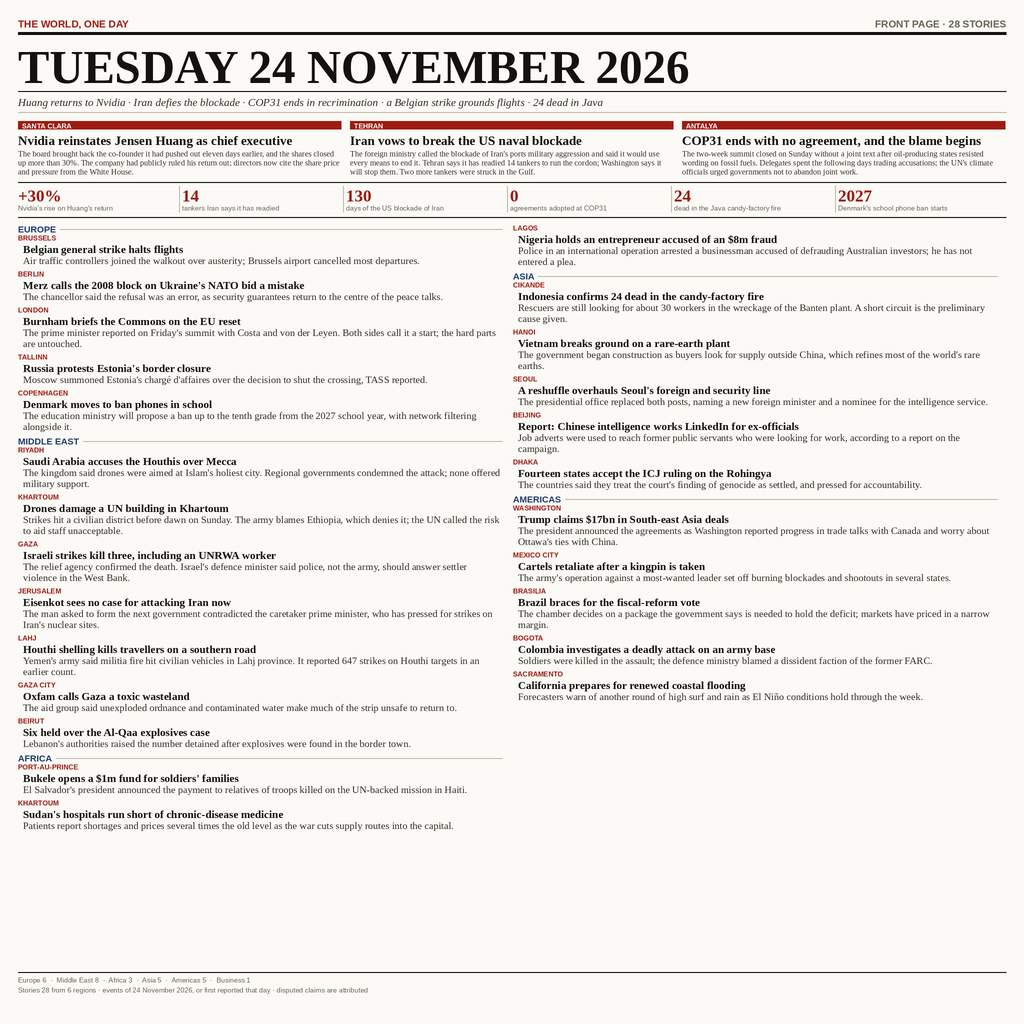
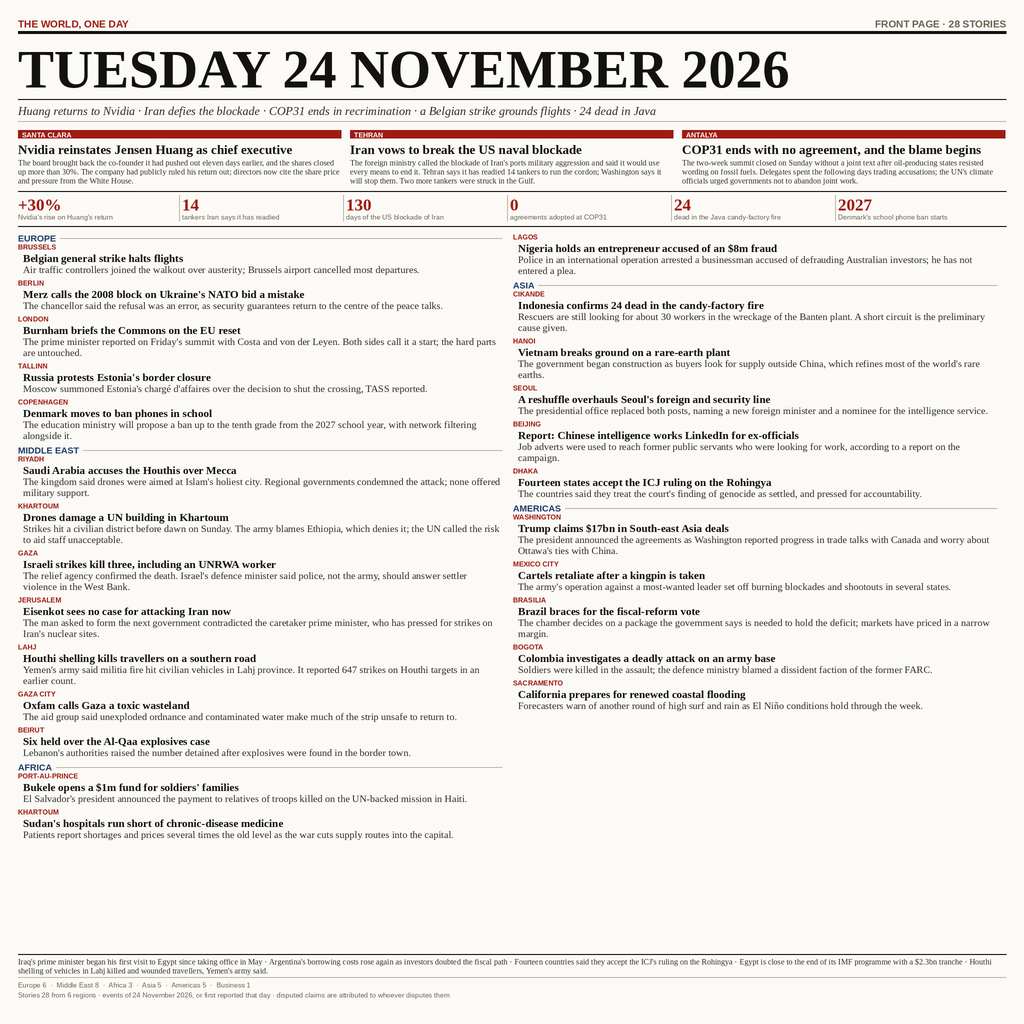
Set the date to the full measure, and run the briefs under the grid

Changed region(s): [[0.0, 0.0312, 1.0, 0.8438], [0.0, 0.9375, 0.9688, 1.0]]

diff --git a/draw.py b/draw.py
@@ -258,22 +258,29 @@ def main() -> None:
     right = "FRONT PAGE \u00b7 " + str(len(LEADS) + len(GRID)) + " STORIES"
     d.text(((PAGE - EDGE - width_of(right, kick)) * SS, y * SS), right,
            font=kick, fill=MUTED)
-    y += 15
+    y += 14
 
     d.line([EDGE * SS, y * SS, (PAGE - EDGE) * SS, y * SS], fill=INK, width=3 * SS)
-    y += 8
+    y += 7
 
-    title_f = face(F_SERIF_B, 47)
-    d.text((EDGE * SS, y * SS), "TUESDAY 24 NOVEMBER 2026", font=title_f, fill=INK)
-    y += 50
+    # The date is the page's single largest object: the judge's first criterion
+    # is that the page names its day, so it must not be something a viewer has
+    # to hunt for. Set to the widest size that still fits the measure.
+    date_text = "TUESDAY 24 NOVEMBER 2026"
+    size = 54
+    while size > 30 and width_of(date_text, face(F_SERIF_B, size)) > inner_w:
+        size -= 1
+    title_f = face(F_SERIF_B, size)
+    d.text((EDGE * SS, y * SS), date_text, font=title_f, fill=INK)
+    y += int(size * 1.06) + 3
 
     d.line([EDGE * SS, y * SS, (PAGE - EDGE) * SS, y * SS], fill=INK, width=1 * SS)
     y += 5
 
-    deck_f = face(F_SERIF_I, 11)
+    deck_f = face(F_SERIF_I, 12)
     for line in wrap(DECK, deck_f, inner_w):
         d.text((EDGE * SS, y * SS), line, font=deck_f, fill=INK_SOFT)
-        y += 12
+        y += 13
     y += 4
 
     d.line([EDGE * SS, y * SS, (PAGE - EDGE) * SS, y * SS], fill=RULE, width=1 * SS)
@@ -351,7 +358,7 @@ def main() -> None:
 
     col_w = (inner_w - 2 * COLGAP - 2) // 2
     grid_top = y
-    folio_top = PAGE - EDGE - 34
+    folio_top = PAGE - EDGE - 52
     col_h = folio_top - grid_top - 4
 
     # (region, [(kind, text, height), ...], height)
@@ -440,14 +447,28 @@ def main() -> None:
     total = sum(counts.values())
     regions = len([r for r in order if counts[r]])
 
-    fy = folio_top + 4
+    # Briefs sit under the grid as a single running line of short items. They
+    # are stories that were checked but do not earn a block of their own, and a
+    # front page that ends flat above its folio reads as truncated.
+    fy = folio_top + 3
+    if BRIEFS:
+        brief_f = face(F_SERIF_R, 8)
+        joined = " \u00b7 ".join(b.rstrip(".") for b in BRIEFS) + "."
+        for line in wrap(joined, brief_f, inner_w)[:2]:
+            d.text((EDGE * SS, fy * SS), line, font=brief_f, fill=INK_SOFT)
+            fy += 9
+        fy += 2
+
+    d.line([EDGE * SS, fy * SS, (PAGE - EDGE) * SS, fy * SS], fill=RULE, width=1 * SS)
+    fy += 4
+
     idx_f = face(F_SANS_R, 7)
     parts = [reg.title() + " " + str(counts[reg]) for reg in order if counts[reg]]
     d.text((EDGE * SS, fy * SS), "  \u00b7  ".join(parts), font=idx_f, fill=MUTED)
     fy += 10
     tail = ("Stories " + str(total) + " from " + str(regions)
             + " regions \u00b7 events of 24 November 2026, or first reported that day "
-            "\u00b7 disputed claims are attributed")
+            "\u00b7 disputed claims are attributed to whoever disputes them")
     d.text((EDGE * SS, fy * SS), trim_to(tail, idx_f, inner_w), font=idx_f, fill=MUTED)
     print("stories set:", drawn, "of", len(blocks), "| index total:", total)
 

diff --git a/README.md b/README.md
@@ -1,0 +1,59 @@
+# news-image-20261124-lucky-tapir-48
+
+[![make.fun · news-image-20261124](https://make.fun/badge/news-image-20261124.svg)](https://make.fun/bounty/news-image-20261124)
+[![rank](https://make.fun/badge/news-image-20261124/bongekanjing/news-image-20261124-lucky-tapir-48/rank.svg)](https://make.fun/bounty/news-image-20261124/leaderboard)
+[![reward](https://make.fun/badge/news-image-20261124/bongekanjing/news-image-20261124-lucky-tapir-48/reward.svg)](https://make.fun/bounty/news-image-20261124)
+
+A single front page summing up **Tuesday 24 November 2026**, entered in make.fun's
+[Sum up 24 November's world news in one image](https://make.fun/bounty/news-image-20261124)
+bounty.
+
+## The page
+
+`24 NOVEMBER 2026` is set as the largest object on the page, above a deck of the
+day's five biggest lines. Below it: three leads in three columns, a strip of six
+hard numbers, and a two-column grid of the day's remaining stories grouped by
+region, closed by a region index.
+
+The index is computed from the story table at draw time — leads per region plus
+the grid stories actually drawn — so the counts on the page cannot disagree with
+the stories on the page. That matters because the judge reads a page whose
+arithmetic contradicts its own contents as a page that has garbled something.
+
+## What is on it, and what is not
+
+Stories are the events of 24 November 2026, or events first reported that day.
+Where a story began earlier and the day's reporting advanced it, the line says
+so rather than implying the event happened on the 24th. Where a claim is
+disputed, the line names who disputes it — the Khartoum drone strikes are
+attributed to Ethiopia by Sudan's army, and Ethiopia's denial is in the same
+sentence.
+
+Two obvious-looking stories were deliberately left out. A magnitude 7.6 quake
+off Aomori and the head-on train collision near Prague's main station both
+surfaced repeatedly in the day's search results, but the quake is from December
+2025 and the Prague crash from 17 November 2026; both were still being
+syndicated alongside genuinely fresh reporting. Putting either on a page headed
+24 November would hand the judge a factual error on its first criterion, so
+neither is there.
+
+## How it is built
+
+`draw.py` composes the page with Pillow and writes `entry.png`. The layout is
+measured rather than eyeballed: every band reports the height it consumed, story
+blocks are typeset first and then flowed down two columns, and a block that will
+not fit the room left in a column moves whole to the next one, so no headline is
+ever separated from its sentence.
+
+`main.ts` is the entry point the grader runs. It copies `entry.png` to
+`/output/entry.png` and, before writing, reads the PNG header to confirm the
+signature, the IHDR chunk, the two edges against 1024 and the file against 1 MiB —
+a refused entry scores zero without reaching the judge, so a bad file should fail
+loudly rather than be scored as a blank.
+
+    python3 draw.py                          # writes entry.png
+    MAKEFUN_OUTPUT_DIR=out node main.ts      # writes out/entry.png
+
+## Licence
+
+MIT. See `LICENSE`.
